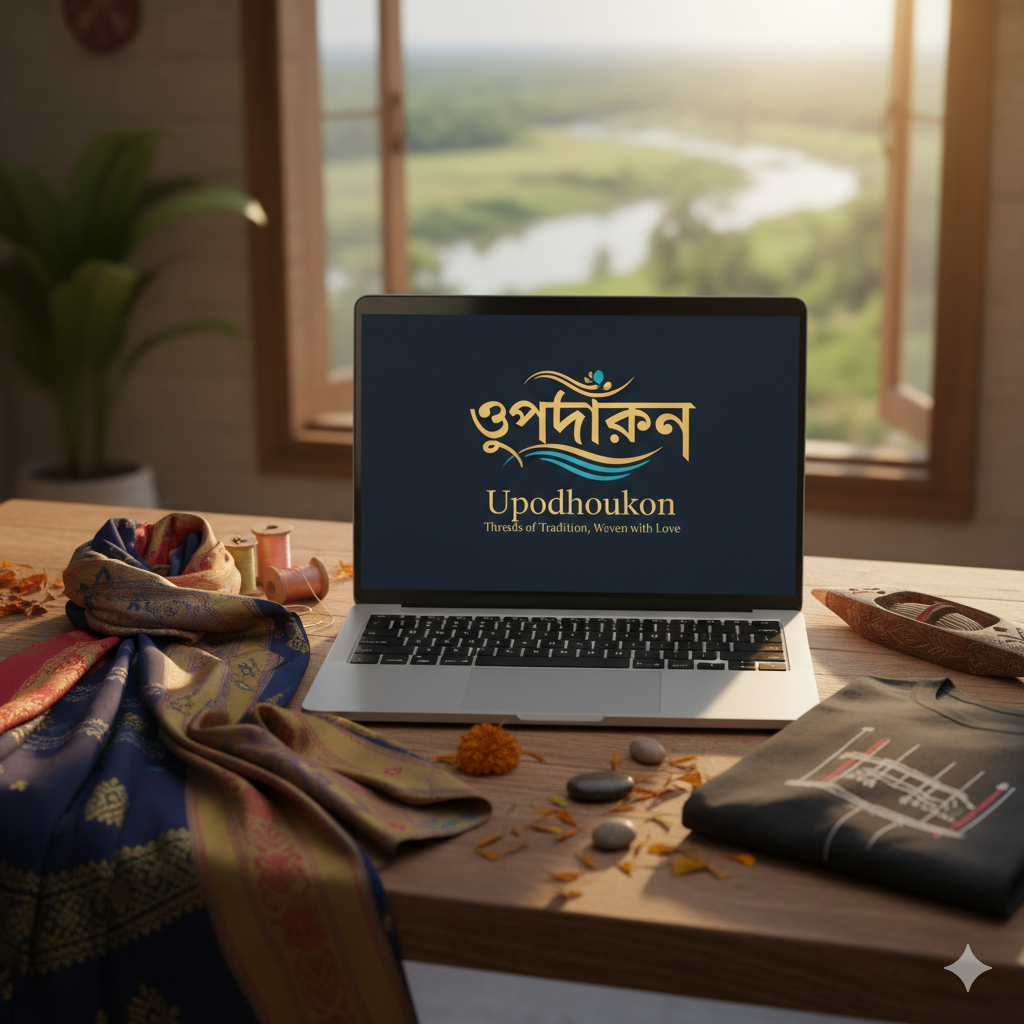
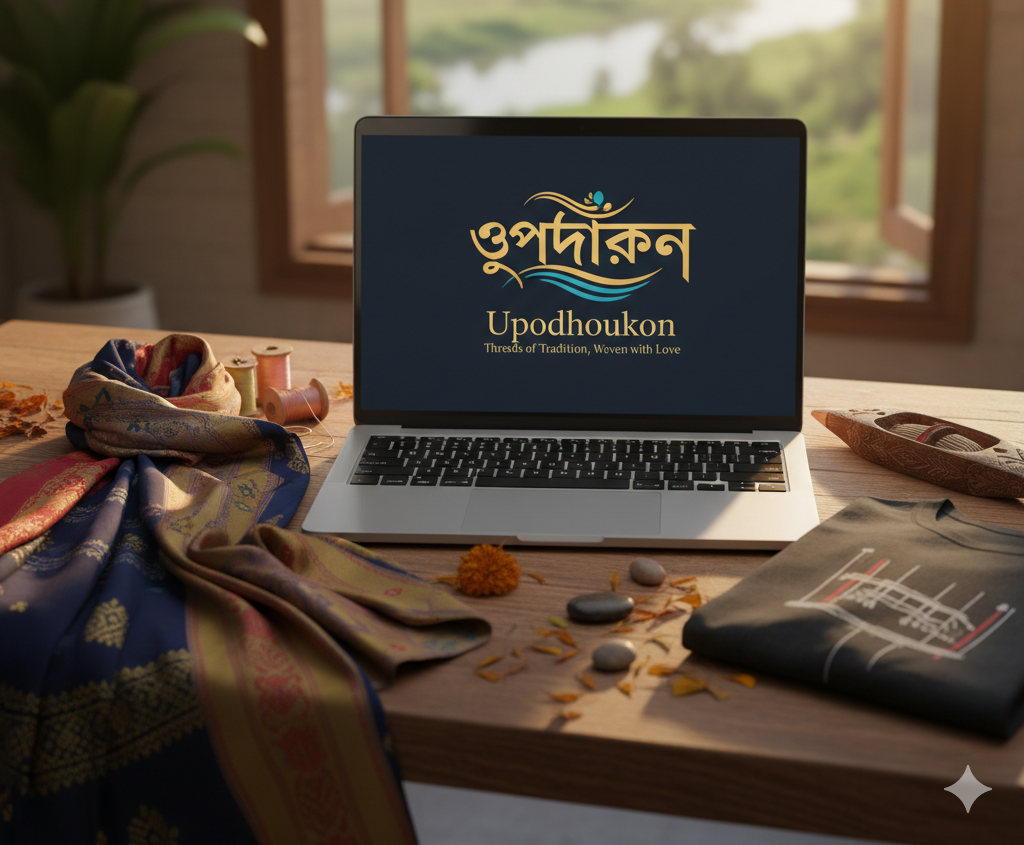
update

diff --git a/index.html b/index.html
@@ -218,6 +218,13 @@
         z-index: 3;
       }
     }
+
+    .logo {
+      width: 121px;
+      height: 68px;
+      margin-top: -17px;
+      filter: sepia(1) saturate(13) hue-rotate(15deg);
+    }
   </style>
 </head>
 
@@ -252,7 +259,7 @@
         <!-- Brand -->
         <div class="col-auto flex">
           <a class="navbar-brand text-white" href="index.html">
-            <span class="text-warning font-semibold fs-4">U</span>podhoukon
+            <img class="logo" src="images/logo.png" alt="logo">
           </a>
         </div>
 
@@ -989,8 +996,8 @@
       // Add your images here
       const images = [
         "./images/beautiful-young-woman-wearing-sari.jpg",
-        "./images/hero.png",
-        "./images/hero2.png",
+        "./images/beautiful-young-woman-wearing-sari.jpg",
+        "./images/beautiful-young-woman-wearing-sari.jpg",
       ];
 
       let index = 0;
@@ -1014,6 +1021,12 @@
   <script>
     AOS.init();
   </script>
+  <script>
+    window.addEventListener("load", function () {
+      window.scrollTo(0, 0);
+    });
+  </script>
+
 </body>
 
 </html>

diff --git a/navbar.html b/navbar.html
@@ -14,6 +14,13 @@
                 color: #000 !important;
             }
         }
+
+        .logo {
+            width: 121px;
+            height: 68px;
+            margin-top: -17px;
+            filter: sepia(1) saturate(13) hue-rotate(22deg);
+        }
     </style>
 </head>
 
@@ -25,7 +32,7 @@
                 <!-- Brand -->
                 <div class="col-auto flex">
                     <a class="navbar-brand text-white" href="index.html">
-                        <span class="text-warning font-semibold fs-4">U</span>podhoukon
+                        <img class="logo" src="images/logo.png" alt="logo">
                     </a>
                 </div>
 

diff --git a/style.css b/style.css
@@ -165,12 +165,12 @@ a {
 /* Hero */
 .hero {
   position: relative;
-  height: 117vh;
+  height: 100vh;
   width: 100%;
   background-image: url('./images/beautiful-young-woman-wearing-sari.jpg');
   background-size: cover;
   background-repeat: no-repeat;
-  background-position: center;
+  background-position: top center;
   background-color: #000;
   transition: background-image 1s ease-in-out;
   display: flex;
@@ -178,8 +178,9 @@ a {
   justify-content: center;
   color: white;
   text-align: center;
-  margin-top: 11px;
+  margin-top: 0;
 }
+
 
 .hero-overlay {
   position: absolute;
